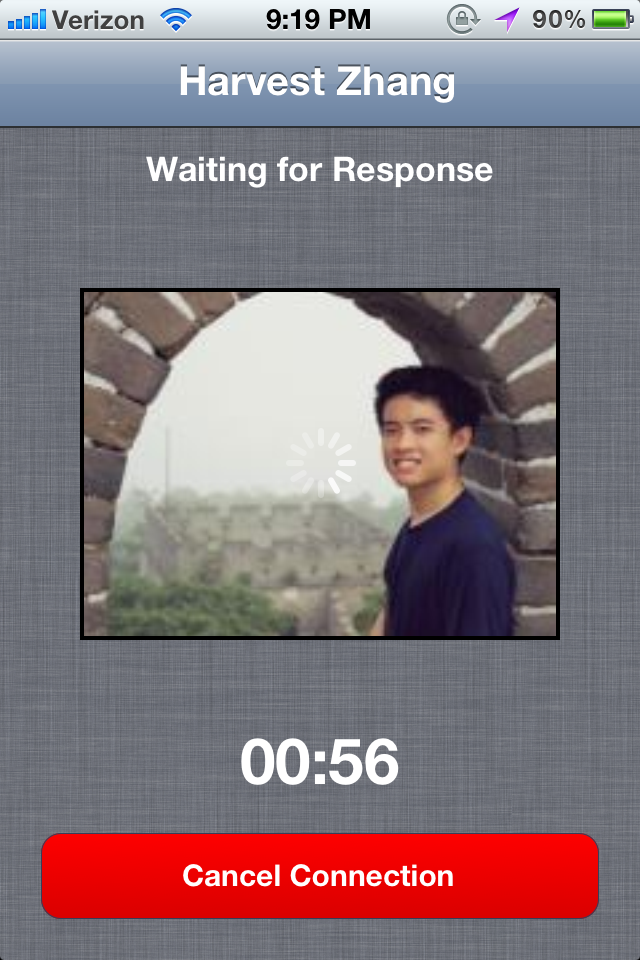
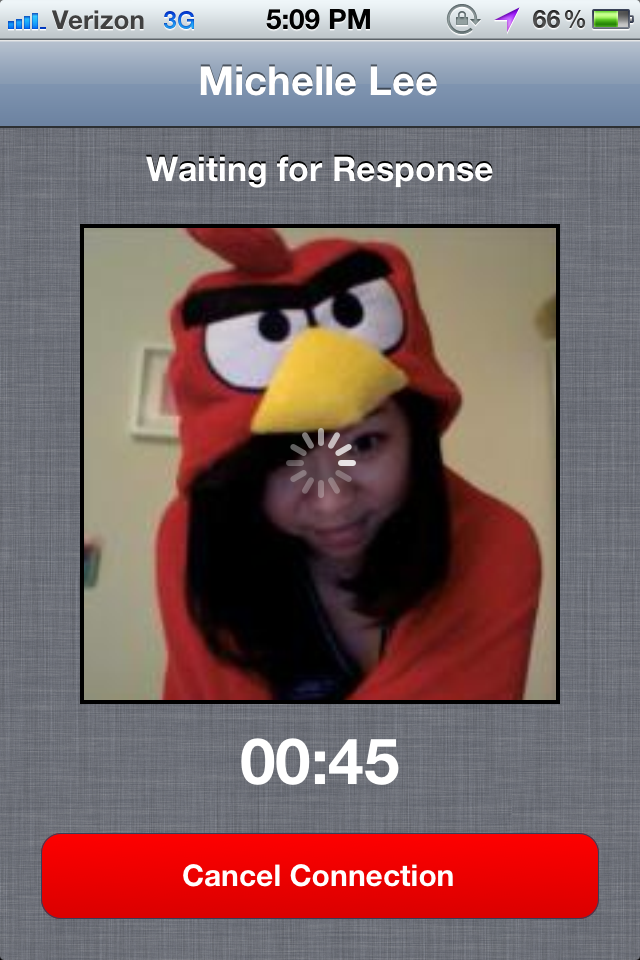
Replace images

diff --git a/templates/index.html b/templates/index.html
@@ -40,7 +40,7 @@
         <li><a href="#content1" data-screen="/static/images/screen_push.png">Share Location</a></li>
         <li><a href="#content2" data-screen="/static/images/screen_contacts.png">Easy Registration</a></li>
         <li><a href="#content3" data-screen="/static/images/screen_call.png">Find Friends</a></li>
-        <li><a href="#content4" data-screen="/static/images/screen_calling.png">Maintain Privacy</a></li>
+        <li><a href="#content4" data-screen="/static/images/screen_receive.png">Maintain Privacy</a></li>
         <li><a href="#content5" data-screen="/static/images/screen_map.png">Get Bemo</a></li>
       </ul>
     </div>
@@ -115,7 +115,7 @@
         <img style="width:1px;height:1px;position:absolute;bottom:1px;right:1px;" src="/static/images/screen_push.png" />
         <img style="width:1px;height:1px;position:absolute;bottom:1px;right:1px;" src="/static/images/screen_contacts.png" />
         <img style="width:1px;height:1px;position:absolute;bottom:1px;right:1px;" src="/static/images/screen_call.png" />
-        <img style="width:1px;height:1px;position:absolute;bottom:1px;right:1px;" src="/static/images/screen_calling.png" />
+        <img style="width:1px;height:1px;position:absolute;bottom:1px;right:1px;" src="/static/images/screen_receive.png" />
       </div>
     </div>
   </body>

diff --git a/static/css/styles.css b/static/css/styles.css
@@ -257,8 +257,9 @@ left: -6px;
 .overlay .phone .screen
 {
   position: absolute;
-  top: 39px; left: 50px;
-  height: 556px;
+  top: 60px;
+  left: 50px;
+  height: 535px;
   width: 370px;
 
   background-size: cover;
